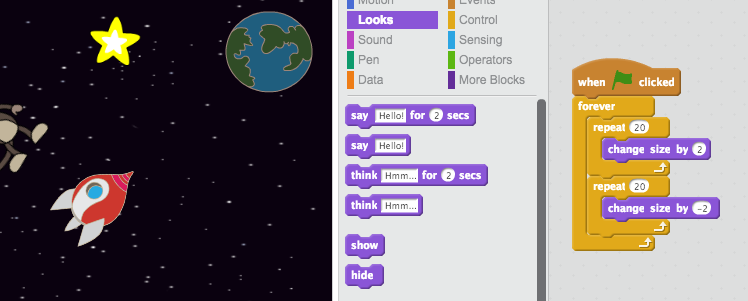
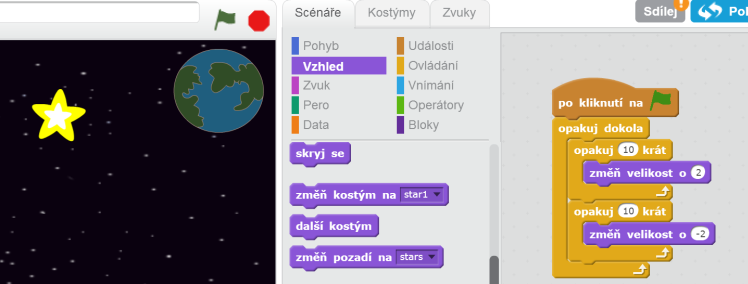
fix

diff --git a/cs-CZ/Term 1/Lost in Space/Lost in Space.md b/cs-CZ/Term 1/Lost in Space/Lost in Space.md
@@ -169,12 +169,12 @@ Nakombinuj cykly a vytvoř svítící hvězdy.
 
 	![screenshot](space-star.png)
 
-+ Otestuj animaci. Co tento kód dělá? Správně, hvězda se dvacetkrát zvětší a zase změnší. Jsou tam dvě smyčky uvnitř smyčky `forever` {.blockcontrol} aby se animace nezastavila.
++ Otestuj animaci. Co tento kód dělá? Správně, hvězda se dvacetkrát zvětší a zase změnší. Jsou tam dvě smyčky uvnitř smyčky `opakuj dokola` {.blockcontrol} aby se animace nezastavila.
 
 ## Ulož projekt { .save }
 
 ## Výzva: Udělej si vlastní animaci {.challenge}
-Zastav animaci a klikni na 'File' potom na 'New', pro vytvoření nového projektu.
+Zastav animaci a klikni na 'Soubor' potom na 'Nový', pro vytvoření nového projektu.
 
 Použij co jsi se naučil(a) pro vytvoření vlastní animace. Může to být cokoliv. Tady máš pár příkladů:
 
